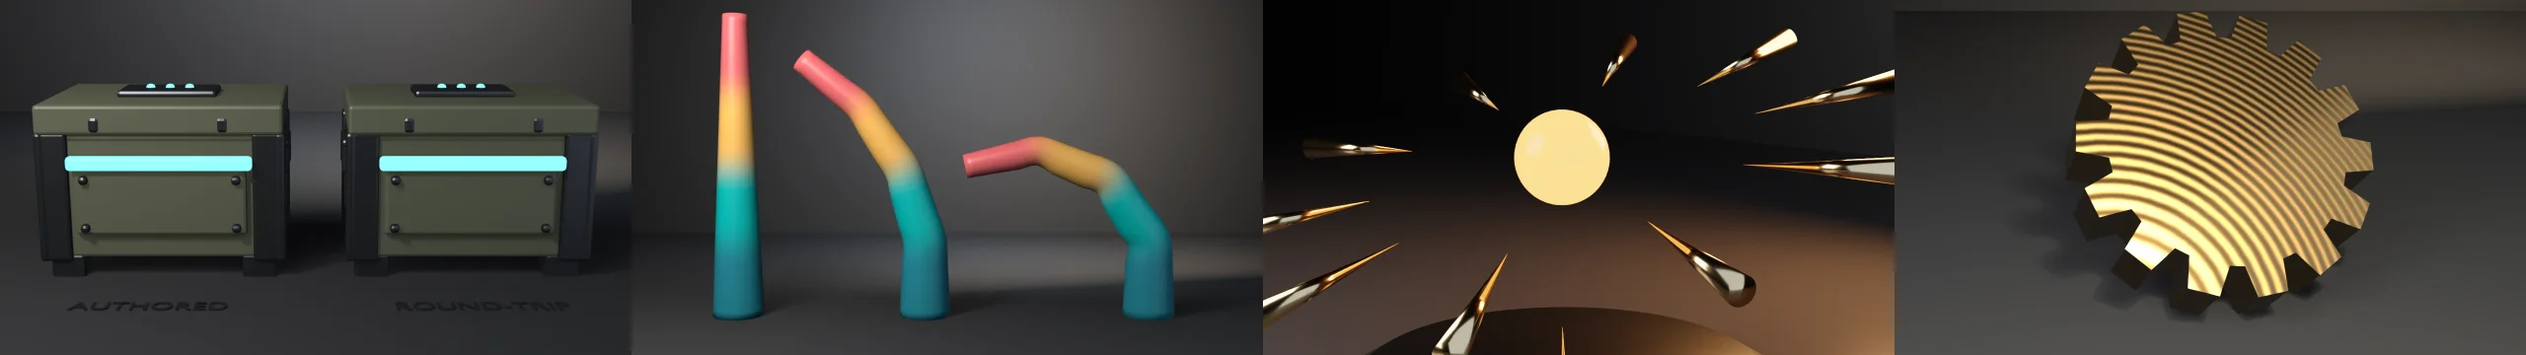
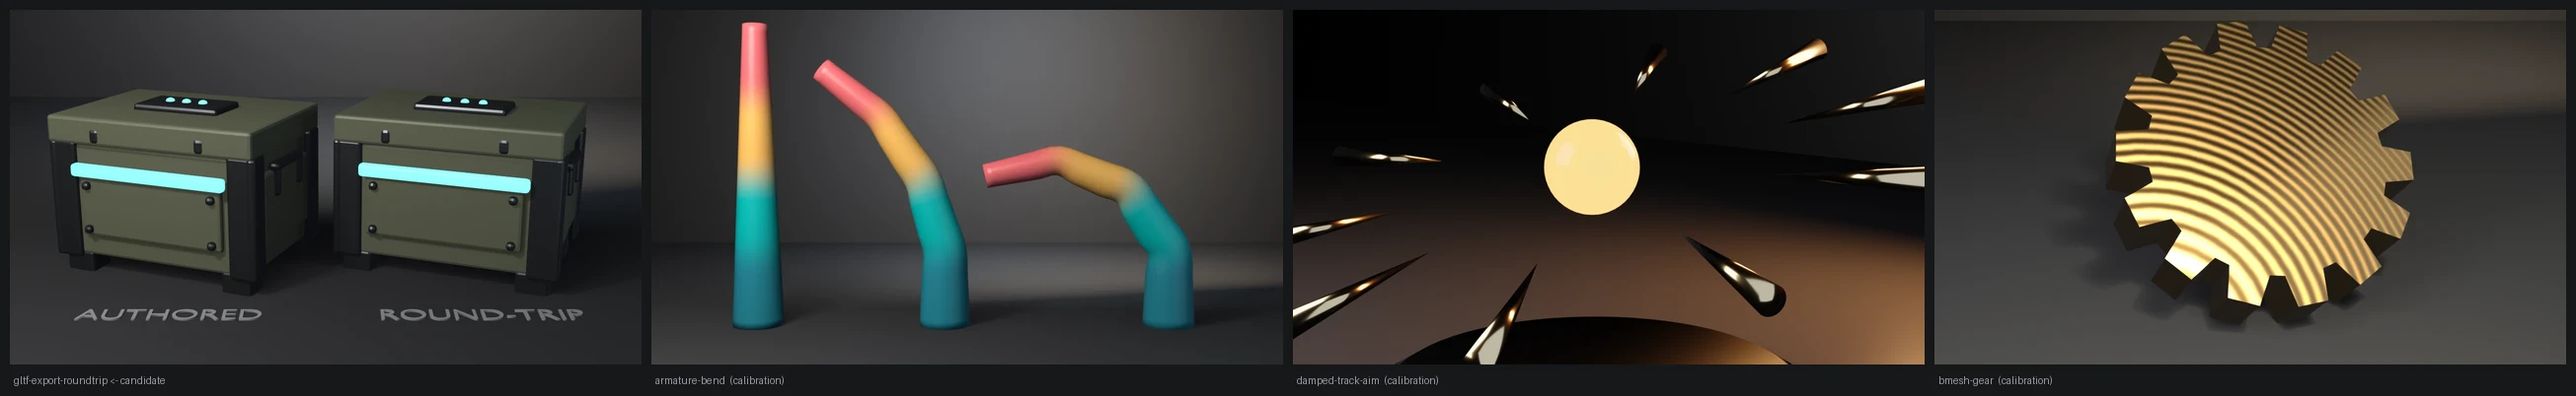
fix: gltf-export-roundtrip presentation, turned crates and a framing gate
Render path only: both twins turn 22 degrees to show a side, and the render
now calls check_framing, which it never did. Exit 10 is a check code here,
so a framing violation is remapped to 22. Contract and exit codes unchanged
on 4.5.11, 5.1.2 and 5.2.1.

diff --git a/docs/gallery/gltf-export-roundtrip/index.html b/docs/gallery/gltf-export-roundtrip/index.html
@@ -16,13 +16,13 @@
   <meta property="og:image" content="https://tmhsdigital.github.io/Blender-Developer-Tools/gallery/assets/gltf-export-roundtrip-hero.webp" />
   <meta property="og:image:width" content="1280" />
   <meta property="og:image:height" content="720" />
-  <meta property="og:image:alt" content="Two identical olive equipment crates with cyan light strips, labelled AUTHORED and ROUND-TRIP." />
+  <meta property="og:image:alt" content="Two identical olive equipment crates with cyan light strips, both turned to show a side, labelled AUTHORED and ROUND-TRIP." />
   <meta property="og:site_name" content="Blender Developer Tools" />
   <meta name="twitter:card" content="summary_large_image" />
   <meta name="twitter:title" content="gltf-export-roundtrip — Examples — Blender Developer Tools" />
   <meta name="twitter:description" content="A sci-fi supply crate exported to glTF and re-imported, verifying the round-trip against the depsgraph-evaluated mesh within float tolerances. Positions, loop normals, box-mapped UVs, and per-triangle material bindings must all survive; the on-disk JSON proves the +Y-up conversion and the V-flipped UV layout." />
   <meta name="twitter:image" content="https://tmhsdigital.github.io/Blender-Developer-Tools/gallery/assets/gltf-export-roundtrip-hero.webp" />
-  <meta name="twitter:image:alt" content="Two identical olive equipment crates with cyan light strips, labelled AUTHORED and ROUND-TRIP." />
+  <meta name="twitter:image:alt" content="Two identical olive equipment crates with cyan light strips, both turned to show a side, labelled AUTHORED and ROUND-TRIP." />
   <style>
     /* fonts are deployed by the landing build (docs/fonts/) */
     @font-face { font-family: 'Barlow Condensed'; font-weight: 600; font-display: swap;
@@ -268,8 +268,8 @@
     <p>A sci-fi supply crate exported to glTF and re-imported, verifying the round-trip against the depsgraph-evaluated mesh within float tolerances. Positions, loop normals, box-mapped UVs, and per-triangle material bindings must all survive; the on-disk JSON proves the +Y-up conversion and the V-flipped UV layout.</p>
   </header>
   <main id="main">
-    <button class="detail-hero" id="heroZoom" type="button" aria-label="View full size: Two identical olive equipment crates with cyan light strips, labelled AUTHORED and ROUND-TRIP.">
-      <img src="../assets/gltf-export-roundtrip-hero.webp" alt="Two identical olive equipment crates with cyan light strips, labelled AUTHORED and ROUND-TRIP." width="1280" height="720" />
+    <button class="detail-hero" id="heroZoom" type="button" aria-label="View full size: Two identical olive equipment crates with cyan light strips, both turned to show a side, labelled AUTHORED and ROUND-TRIP.">
+      <img src="../assets/gltf-export-roundtrip-hero.webp" alt="Two identical olive equipment crates with cyan light strips, both turned to show a side, labelled AUTHORED and ROUND-TRIP." width="1280" height="720" />
     </button>
     <p class="zoom-hint">Rendered headless by the example itself — click to zoom.</p>
     <div class="callout"><span class="tag">witnesses</span> export_yup bakes (x, y, z) -&gt; (x, z, -y) into the vertex data with no node rotation (probed identical on 4.5.11 and 5.1.2); export_apply ships the evaluated mesh, not the base cage; exporter/importer RNA is guarded so a future kwarg rename fails loudly.</div>
@@ -284,7 +284,8 @@
 <ul><li><strong>The +Y-up convention is baked into vertex data.</strong> glTF is +Y-up, Blender is +Z-up, and <code>export_yup=True</code> (the default) writes <code>(x, y, z) -&gt; (x, z, -y)</code> directly into the POSITION buffer — the node carries <strong>no</strong> rotation or scale. The check parses the <code>.gltf</code> JSON and asserts the accessor bounds equal the axis-converted evaluated bounding box, and that the node transform is absent. Exporting with <code>export_yup=False</code> ships raw Z-up data every engine displays lying on its back.</li><li><strong><code>export_apply=True</code> ships the evaluated mesh, not the base cage.</strong> The crate&#x27;s bevel modifier lives only in the depsgraph; with flat shading and UV seams the exporter splits exactly one vertex per evaluated loop (7,560), so the on-disk POSITION count is an exact witness. <code>export_apply=False</code> silently writes the 624-vertex cage.</li><li><strong>The round-trip is faithful.</strong> Re-imported positions (bit-exact here), loop normals (≤2e-4), box-mapped UVs (≤3e-5), and per-triangle material bindings all match the evaluated mesh. UVs are V-flipped on disk (glTF texture origin is top-left) and flipped back on import — both flips are proven by reading the <code>.bin</code> buffer directly.</li></ul>
 <p><strong>Version witness (probed on Blender 4.5.11 LTS and 5.1.2):</strong> the operator signatures are byte-identical — 109 exporter properties, 20 importer properties, same defaults — and the exported JSON differs only in <code>asset.generator</code> (&quot;Khronos glTF Blender I/O v4.5.51&quot; vs &quot;v5.1.20&quot;). The example therefore runs identical kwargs on both versions and guards forward drift explicitly: every kwarg it passes must still exist in the operator&#x27;s RNA, so a future rename fails loudly instead of drifting silently. One genuine 5.x removal surfaced during authoring: <code>Mesh.calc_normals()</code> is gone (loop normals auto-compute on read) — calling it is itself a cross-version hazard, noted in the code.</p>
 <p>Two more authoring hazards are pinned in comments: exact face-plane coincidences between kit-bashed shells weld loops on export (the count check catches it), and <code>read_factory_settings</code> mid-check frees the original mesh — touching a freed RNA raises <code>ReferenceError</code>, so counts are captured before the wipe.</p>
-<p>The render stages the authored crate beside the actual re-imported one — same bevels, same materials carried through the file itself. If the axis conversion broke, the right twin would lie on its side; if the modifier contract broke, its silhouette would lose the rounded edges.</p>
+<p>The render stages the authored crate beside the actual re-imported one — same bevels, same materials carried through the file itself. If the axis conversion broke, the right twin would lie on its side; if the modifier contract broke, its silhouette would lose the rounded edges. Both twins are turned 22° off square so each shows a side and its corner armour; dead-on, the pair read as two flat front elevations. The re-imported object comes back in <code>QUATERNION</code> rotation mode, so the render path switches it to <code>XYZ</code> before turning it — presentation only, after every check has run.</p>
+<p>The render path gates framing through <code>gallery_framing.check_framing</code>. The helper returns 10, which is already a check code here, so the call site remaps a framing violation to 22.</p>
 <h2>Run</h2>
 <pre><code># Cheap correctness check (no render) — the CI check:
 blender --background --python gltf_export_roundtrip.py --
@@ -297,7 +298,7 @@ blender --background --python gltf_export_roundtrip.py -- --output crate.png
 blender --background --python gltf_export_roundtrip.py -- --output crate.png --engine cycles</code></pre>
 <h2>Exit codes</h2>
 <p>Per-script sequential checks. <code>9</code> is a valid check code; there is no rule against it.</p>
-<div class="table-wrap"><table><thead><tr><th scope="col">Code</th><th scope="col">Meaning</th></tr></thead><tbody><tr><td>0</td><td>Success</td></tr><tr><td>1</td><td>Uncaught exception (FATAL wrapper)</td></tr><tr><td>2</td><td>argparse / usage</td></tr><tr><td>3</td><td>Exporter/importer RNA kwargs drifted</td></tr><tr><td>4</td><td>Base cage drifted from its closed form</td></tr><tr><td>5</td><td>Authored UVs drifted from the box-map closed form</td></tr><tr><td>6</td><td>Bevel produced no evaluated geometry</td></tr><tr><td>7</td><td>On-disk node/mesh/generator contract drifted</td></tr><tr><td>8</td><td>On-disk primitive/material binding count drifted</td></tr><tr><td>9</td><td>On-disk POSITION bounds ≠ axis-converted bbox (<code>--no-yup</code> lands here)</td></tr><tr><td>10</td><td>On-disk POSITION count ≠ evaluated loop count</td></tr><tr><td>11</td><td>On-disk UV V-flip failed</td></tr><tr><td>12</td><td>Re-import did not produce exactly one mesh</td></tr><tr><td>13</td><td>Re-imported object carries a transform</td></tr><tr><td>14</td><td>Material names drifted on re-import</td></tr><tr><td>15</td><td>Re-import vert count ≠ evaluated loop count</td></tr><tr><td>16</td><td>Round-trip position drift</td></tr><tr><td>17</td><td>Round-trip normal drift</td></tr><tr><td>18</td><td>Round-trip UV drift</td></tr><tr><td>19</td><td>Re-import triangle count drifted</td></tr><tr><td>20</td><td>Per-triangle material bindings drifted</td></tr><tr><td>21</td><td><code>--output</code> produced no file</td></tr></tbody></table></div>
+<div class="table-wrap"><table><thead><tr><th scope="col">Code</th><th scope="col">Meaning</th></tr></thead><tbody><tr><td>0</td><td>Success</td></tr><tr><td>1</td><td>Uncaught exception (FATAL wrapper)</td></tr><tr><td>2</td><td>argparse / usage</td></tr><tr><td>3</td><td>Exporter/importer RNA kwargs drifted</td></tr><tr><td>4</td><td>Base cage drifted from its closed form</td></tr><tr><td>5</td><td>Authored UVs drifted from the box-map closed form</td></tr><tr><td>6</td><td>Bevel produced no evaluated geometry</td></tr><tr><td>7</td><td>On-disk node/mesh/generator contract drifted</td></tr><tr><td>8</td><td>On-disk primitive/material binding count drifted</td></tr><tr><td>9</td><td>On-disk POSITION bounds ≠ axis-converted bbox (<code>--no-yup</code> lands here)</td></tr><tr><td>10</td><td>On-disk POSITION count ≠ evaluated loop count</td></tr><tr><td>11</td><td>On-disk UV V-flip failed</td></tr><tr><td>12</td><td>Re-import did not produce exactly one mesh</td></tr><tr><td>13</td><td>Re-imported object carries a transform</td></tr><tr><td>14</td><td>Material names drifted on re-import</td></tr><tr><td>15</td><td>Re-import vert count ≠ evaluated loop count</td></tr><tr><td>16</td><td>Round-trip position drift</td></tr><tr><td>17</td><td>Round-trip normal drift</td></tr><tr><td>18</td><td>Round-trip UV drift</td></tr><tr><td>19</td><td>Re-import triangle count drifted</td></tr><tr><td>20</td><td>Per-triangle material bindings drifted</td></tr><tr><td>21</td><td><code>--output</code> produced no file</td></tr><tr><td>22</td><td>Gallery framing violation (render path only; the helper&#x27;s 10, remapped)</td></tr></tbody></table></div>
 <p>The <code>blender-smoke</code> workflow runs the check on Blender 5.2 LTS and 4.5 LTS (5.1 on the weekly cron, the <code>needs-5.1</code> PR label, or manual dispatch). Smoke does not pass <code>--output</code> or <code>--no-yup</code>.</p>
     </section>
     <section class="detail-section src">
@@ -348,6 +349,11 @@ check. Pass --output to also render a still:
 &quot;&quot;&quot;</span>
 <span class="k">import</span> bpy, bmesh, sys, os, math, json, struct, shutil, tempfile, argparse
 <span class="k">import</span> mathutils
+
+<span class="c"># Shared Layer 1 framing measurement (render path only) — see gallery_framing.py</span>
+sys.path.insert(<span class="n">0</span>, os.path.join(os.path.dirname(os.path.abspath(__file__)), os.pardir))
+sys.dont_write_bytecode = <span class="k">True</span>  <span class="c"># keep examples/__pycache__ out of the repo tree</span>
+<span class="k">import</span> gallery_framing
 
 <span class="c"># ---------------------------------------------------------------------------</span>
 <span class="c"># Crate specification. Every part is an axis-aligned box, so every base-cage</span>
@@ -801,8 +807,15 @@ KEY_DIGITS = <span class="n">4</span>          <span class="c"># position-key gr
 
     <span class="c"># the authored twin keeps its materials; the re-imported twin renders with</span>
     <span class="c"># whatever the file carried back — the same look through the format itself</span>
+    <span class="c"># turned a quarter off square so each crate shows a side and its corner</span>
+    <span class="c"># guards read as solid; dead-on, the pair was two flat front elevations</span>
     authored.location.x = -<span class="n">1.35</span>
     roundtrip.location.x = <span class="n">1.35</span>
+    <span class="c"># the importer leaves objects in QUATERNION mode, where rotation_euler</span>
+    <span class="c"># is ignored</span>
+    <span class="k">for</span> ob <span class="k">in</span> (authored, roundtrip):
+        ob.rotation_mode = <span class="s">&#x27;XYZ&#x27;</span>
+        ob.rotation_euler.z = math.radians(-<span class="n">22.0</span>)
 
     pm = bpy.data.materials.new(<span class="s">&quot;PlaqueMetal&quot;</span>)
     pm.use_nodes = <span class="k">True</span>
@@ -823,14 +836,14 @@ KEY_DIGITS = <span class="n">4</span>          <span class="c"># position-key gr
         ob.location = (x, -<span class="n">1.55</span>, <span class="n">0.01</span>)
         ob.data.materials.append(pm)
         scene.collection.objects.link(ob)
+        <span class="k">return</span> ob
 
-    plaque(<span class="s">&quot;AUTHORED&quot;</span>, -<span class="n">1.35</span>)
-    plaque(<span class="s">&quot;ROUND-TRIP&quot;</span>, <span class="n">1.35</span>)
+    plaques = [plaque(<span class="s">&quot;AUTHORED&quot;</span>, -<span class="n">1.35</span>), plaque(<span class="s">&quot;ROUND-TRIP&quot;</span>, <span class="n">1.35</span>)]
 
     floor_me = bpy.data.meshes.new(<span class="s">&quot;Floor&quot;</span>)
     bm = bmesh.new()
     <span class="k">try</span>:
-        bmesh.ops.create_grid(bm, x_segments=<span class="n">1</span>, y_segments=<span class="n">1</span>, size=<span class="n">30.0</span>)
+        bmesh.ops.create_grid(bm, x_segments=<span class="n">1</span>, y_segments=<span class="n">1</span>, size=<span class="n">60.0</span>)
         bm.to_mesh(floor_me)
     <span class="k">finally</span>:
         bm.free()
@@ -870,7 +883,7 @@ KEY_DIGITS = <span class="n">4</span>          <span class="c"># position-key gr
     cam_data = bpy.data.cameras.new(<span class="s">&quot;Cam&quot;</span>)
     cam_data.lens = <span class="n">53.0</span>
     cam = bpy.data.objects.new(<span class="s">&quot;Cam&quot;</span>, cam_data)
-    cam.location = (<span class="n">0.0</span>, -<span class="n">8.6</span>, <span class="n">2.7</span>)
+    cam.location = (<span class="n">0.0</span>, -<span class="n">8.9</span>, <span class="n">3.3</span>)
     scene.collection.objects.link(cam)
     target = bpy.data.objects.new(<span class="s">&quot;Aim&quot;</span>, <span class="k">None</span>)
     target.location = (<span class="n">0.0</span>, <span class="n">0.0</span>, <span class="n">0.75</span>)
@@ -894,8 +907,19 @@ KEY_DIGITS = <span class="n">4</span>          <span class="c"># position-key gr
     <span class="c"># AgX would wash the olive drab and teal glow toward pastel</span>
     <span class="c"># (docs/VISUAL-STYLE.md)</span>
     scene.view_settings.view_transform = <span class="s">&#x27;Standard&#x27;</span>
+    <span class="c"># Layer 1 framing gate (silhouette matte), before the beauty render so a</span>
+    <span class="c"># defective composition ships no artifact. The helper returns 10, which is</span>
+    <span class="c"># a check code here (POSITION count), so the call site remaps it to 22.</span>
+    fcode = gallery_framing.check_framing(
+        scene, cam,
+        hero=[authored, roundtrip],
+        elements=[authored, roundtrip] + plaques,
+        stage=[floor, wall],
+    )
+    <span class="k">if</span> fcode:
+        <span class="k">return</span> <span class="n">22</span>
     bpy.ops.render.render(write_still=<span class="k">True</span>)
-    <span class="k">return</span> os.path.exists(path) <span class="k">and</span> os.path.getsize(path) &gt; <span class="n">0</span>
+    <span class="k">return</span> <span class="n">0</span> <span class="k">if</span> os.path.exists(path) <span class="k">and</span> os.path.getsize(path) &gt; <span class="n">0</span> <span class="k">else</span> <span class="n">21</span>
 
 
 <span class="k">def</span> main():
@@ -926,10 +950,12 @@ KEY_DIGITS = <span class="n">4</span>          <span class="c"># position-key gr
         authored = build_crate()
         <span class="k">for</span> m <span class="k">in</span> make_materials():
             authored.data.materials.append(m)
-        <span class="k">if</span> <span class="k">not</span> render_still(authored, roundtrip, os.path.abspath(args.output),
-                            args.engine):
+        rcode = render_still(authored, roundtrip, os.path.abspath(args.output),
+                             args.engine)
+        <span class="k">if</span> rcode == <span class="n">21</span>:
             print(<span class="s">&quot;ERROR: render produced no file&quot;</span>, file=sys.stderr)
-            <span class="k">return</span> <span class="n">21</span>
+        <span class="k">if</span> rcode:
+            <span class="k">return</span> rcode
         print(<span class="s">f&quot;</span><span class="s">rendered still </span>{args.output}<span class="s">&quot;</span>)
 
     print(<span class="s">&quot;gltf-export-roundtrip OK&quot;</span>)
@@ -946,7 +972,7 @@ KEY_DIGITS = <span class="n">4</span>          <span class="c"># position-key gr
   </main>
   <dialog class="lightbox" id="lightbox" aria-label="Full-size render">
     <button class="lightbox-close" type="button" autofocus>Close</button>
-    <img src="../assets/gltf-export-roundtrip-hero.webp" alt="Two identical olive equipment crates with cyan light strips, labelled AUTHORED and ROUND-TRIP." />
+    <img src="../assets/gltf-export-roundtrip-hero.webp" alt="Two identical olive equipment crates with cyan light strips, both turned to show a side, labelled AUTHORED and ROUND-TRIP." />
   </dialog>
   <footer>
     <div class="statusbar">

diff --git a/examples/gltf-export-roundtrip/gltf_export_roundtrip.py b/examples/gltf-export-roundtrip/gltf_export_roundtrip.py
@@ -41,6 +41,11 @@ check. Pass --output to also render a still:
 import bpy, bmesh, sys, os, math, json, struct, shutil, tempfile, argparse
 import mathutils
 
+# Shared Layer 1 framing measurement (render path only) — see gallery_framing.py
+sys.path.insert(0, os.path.join(os.path.dirname(os.path.abspath(__file__)), os.pardir))
+sys.dont_write_bytecode = True  # keep examples/__pycache__ out of the repo tree
+import gallery_framing
+
 # ---------------------------------------------------------------------------
 # Crate specification. Every part is an axis-aligned box, so every base-cage
 # vertex is a closed form: center +/- size/2. The parts interpenetrate on
@@ -493,8 +498,15 @@ def render_still(authored, roundtrip, path, engine):
 
     # the authored twin keeps its materials; the re-imported twin renders with
     # whatever the file carried back — the same look through the format itself
+    # turned a quarter off square so each crate shows a side and its corner
+    # guards read as solid; dead-on, the pair was two flat front elevations
     authored.location.x = -1.35
     roundtrip.location.x = 1.35
+    # the importer leaves objects in QUATERNION mode, where rotation_euler
+    # is ignored
+    for ob in (authored, roundtrip):
+        ob.rotation_mode = 'XYZ'
+        ob.rotation_euler.z = math.radians(-22.0)
 
     pm = bpy.data.materials.new("PlaqueMetal")
     pm.use_nodes = True
@@ -515,14 +527,14 @@ def render_still(authored, roundtrip, path, engine):
         ob.location = (x, -1.55, 0.01)
         ob.data.materials.append(pm)
         scene.collection.objects.link(ob)
+        return ob
 
-    plaque("AUTHORED", -1.35)
-    plaque("ROUND-TRIP", 1.35)
+    plaques = [plaque("AUTHORED", -1.35), plaque("ROUND-TRIP", 1.35)]
 
     floor_me = bpy.data.meshes.new("Floor")
     bm = bmesh.new()
     try:
-        bmesh.ops.create_grid(bm, x_segments=1, y_segments=1, size=30.0)
+        bmesh.ops.create_grid(bm, x_segments=1, y_segments=1, size=60.0)
         bm.to_mesh(floor_me)
     finally:
         bm.free()
@@ -562,7 +574,7 @@ def render_still(authored, roundtrip, path, engine):
     cam_data = bpy.data.cameras.new("Cam")
     cam_data.lens = 53.0
     cam = bpy.data.objects.new("Cam", cam_data)
-    cam.location = (0.0, -8.6, 2.7)
+    cam.location = (0.0, -8.9, 3.3)
     scene.collection.objects.link(cam)
     target = bpy.data.objects.new("Aim", None)
     target.location = (0.0, 0.0, 0.75)
@@ -586,8 +598,19 @@ def render_still(authored, roundtrip, path, engine):
     # AgX would wash the olive drab and teal glow toward pastel
     # (docs/VISUAL-STYLE.md)
     scene.view_settings.view_transform = 'Standard'
+    # Layer 1 framing gate (silhouette matte), before the beauty render so a
+    # defective composition ships no artifact. The helper returns 10, which is
+    # a check code here (POSITION count), so the call site remaps it to 22.
+    fcode = gallery_framing.check_framing(
+        scene, cam,
+        hero=[authored, roundtrip],
+        elements=[authored, roundtrip] + plaques,
+        stage=[floor, wall],
+    )
+    if fcode:
+        return 22
     bpy.ops.render.render(write_still=True)
-    return os.path.exists(path) and os.path.getsize(path) > 0
+    return 0 if os.path.exists(path) and os.path.getsize(path) > 0 else 21
 
 
 def main():
@@ -618,10 +641,12 @@ def main():
         authored = build_crate()
         for m in make_materials():
             authored.data.materials.append(m)
-        if not render_still(authored, roundtrip, os.path.abspath(args.output),
-                            args.engine):
+        rcode = render_still(authored, roundtrip, os.path.abspath(args.output),
+                             args.engine)
+        if rcode == 21:
             print("ERROR: render produced no file", file=sys.stderr)
-            return 21
+        if rcode:
+            return rcode
         print(f"rendered still {args.output}")
 
     print("gltf-export-roundtrip OK")

diff --git a/examples/gltf-export-roundtrip/README.md b/examples/gltf-export-roundtrip/README.md
@@ -49,7 +49,15 @@ raises `ReferenceError`, so counts are captured before the wipe.
 The render stages the authored crate beside the actual re-imported one — same
 bevels, same materials carried through the file itself. If the axis conversion
 broke, the right twin would lie on its side; if the modifier contract broke, its
-silhouette would lose the rounded edges.
+silhouette would lose the rounded edges. Both twins are turned 22° off
+square so each shows a side and its corner armour; dead-on, the pair read
+as two flat front elevations. The re-imported object comes back in
+`QUATERNION` rotation mode, so the render path switches it to `XYZ`
+before turning it — presentation only, after every check has run.
+
+The render path gates framing through `gallery_framing.check_framing`.
+The helper returns 10, which is already a check code here, so the call
+site remaps a framing violation to 22.
 
 ## Run
 
@@ -94,6 +102,7 @@ against it.
 | 19 | Re-import triangle count drifted |
 | 20 | Per-triangle material bindings drifted |
 | 21 | `--output` produced no file |
+| 22 | Gallery framing violation (render path only; the helper's 10, remapped) |
 
 The `blender-smoke` workflow runs the check on Blender 5.2 LTS and 4.5 LTS
 (5.1 on the weekly cron, the `needs-5.1` PR label, or manual dispatch).

diff --git a/README.md b/README.md
@@ -814,7 +814,7 @@ portable path is `radius`.
 <table>
 <tr>
 <td width="46%" valign="middle">
-<a href="examples/gltf-export-roundtrip/"><img src="examples/gltf-export-roundtrip/preview.webp" alt="glTF export round-trip: two identical olive-drab sci-fi supply crates on a dark studio floor - authored beside re-imported - with teal status strips, riveted panels, and corner armor, proving the export/import round-trip preserves the asset" /></a>
+<a href="examples/gltf-export-roundtrip/"><img src="examples/gltf-export-roundtrip/preview.webp" alt="glTF export round-trip: two identical olive-drab sci-fi supply crates turned three-quarter on a dark studio floor - authored beside re-imported - with teal status strips, riveted panels, and corner armor, proving the export/import round-trip preserves the asset" /></a>
 </td>
 <td valign="middle">
 
